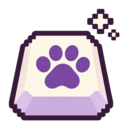
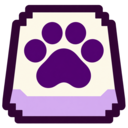
Improve paw keycap visibility in header and browser tabs

diff --git a/src/styles.css b/src/styles.css
@@ -110,8 +110,9 @@ button svg {
   color: inherit;
 }
 .brand-mark {
-  width: 46px;
-  height: 46px;
+  width: 58px;
+  height: 58px;
+  flex-shrink: 0;
   border-radius: 15px;
   background: transparent;
   display: grid;
@@ -1529,8 +1530,8 @@ input[type='range']::-moz-range-thumb {
     font-size: 23px;
   }
   .brand-mark {
-    width: 39px;
-    height: 39px;
+    width: 48px;
+    height: 48px;
     border-radius: 12px;
   }
   .brand-tagline {

diff --git a/index.html b/index.html
@@ -8,7 +8,7 @@
       name="description"
       content="Meet your tiny typing companion. Design a pixel pet, give it a personality, and make every keystroke a little more fun."
     />
-    <link rel="icon" type="image/svg+xml" href="/favicon.svg" />
+    <link rel="icon" type="image/svg+xml" sizes="any" href="/favicon-keycap.svg" />
     <title>KeyCritter — Your tiny typing companion</title>
   </head>
   <body>

diff --git a/src/App.tsx b/src/App.tsx
@@ -315,7 +315,7 @@ export default function App({ desktopState }: { desktopState?: DesktopState }) {
           aria-label="KeyCritter home"
         >
           <span className="brand-mark">
-            <img src={brandLogo} alt="" width="46" height="46" />
+            <img src={brandLogo} alt="" width="58" height="58" />
           </span>
           <span>
             <span className="brand-name">

diff --git a/README.md b/README.md
@@ -4,7 +4,7 @@ A floating typing pet for Windows, with a cozy React designer. Customize a pixel
 
 ## Use the Windows desktop pet
 
-1. Open `KeyCritter-Windows-1.9.2.exe` on a Windows 10/11 x64 computer. This is a portable app; Node.js and an installer are not required.
+1. Open `KeyCritter-Windows-1.9.3.exe` on a Windows 10/11 x64 computer. This is a portable app; Node.js and an installer are not required.
 2. Design your pet, then click **Enable keyboard reactions**. Ordinary typing makes it bounce; Space, Enter, and Backspace have special reactions by default. Add more in the reaction editor.
 3. Drag the little name label beneath your desktop pet to move it. The pet stays above other windows without taking keyboard focus.
 4. Close the designer to keep just the pet. Reopen it from the pet's **Designer** button or the KeyCritter system-tray menu, which may be under Windows' hidden-icons arrow.
@@ -102,13 +102,13 @@ Windows-specific transparency, tray behavior, and native key handling should als
 
 Windows verification checks 0% movement with blinking still active, scaled reaction movement at 25%, and persistence of that setting. It also moves the OS cursor during a captured drag, checks rightward and vertical movement against actual Win32 window positions, verifies no drift from stale renderer events, and checks that edge placement is saved. Drag movement is sampled in the main process, independently of coordinates reported by the moving renderer window.
 
-The GitHub Actions workflow in `.github/workflows/windows-desktop.yml` builds on `windows-latest` when code is pushed to `main`, or when started manually. It opens the actual portable executable on the Windows runner, verifies matching native and interface versions, Upload/AI panels, and uploaded frames playing on the floating pet, and saves screenshots before uploading the download. It also opens Microsoft Edge, switches tabs, and uses Win32 window order/styles to check that the pet stays above the browser without taking focus, recovers from an intentional native topmost reset, and respects unpinning. After a successful run, sign in to GitHub, open the repository's **Actions** tab, select **Build Windows desktop pet**, open the latest completed run, and download the versioned **KeyCritter-Windows-v1.9.2** artifact. Extract that ZIP and follow `START-HERE.txt`. The three `verified-*-ui.png` screenshots and `package-verification.json` show what was tested. Artifacts are retained for 14 days.
+The GitHub Actions workflow in `.github/workflows/windows-desktop.yml` builds on `windows-latest` when code is pushed to `main`, or when started manually. It opens the actual portable executable on the Windows runner, verifies matching native and interface versions, Upload/AI panels, and uploaded frames playing on the floating pet, and saves screenshots before uploading the download. It also opens Microsoft Edge, switches tabs, and uses Win32 window order/styles to check that the pet stays above the browser without taking focus, recovers from an intentional native topmost reset, and respects unpinning. After a successful run, sign in to GitHub, open the repository's **Actions** tab, select **Build Windows desktop pet**, open the latest completed run, and download the versioned **KeyCritter-Windows-v1.9.3** artifact. Extract that ZIP and follow `START-HERE.txt`. The three `verified-*-ui.png` screenshots and `package-verification.json` show what was tested. Artifacts are retained for 14 days.
 
 ```sh
 npm run desktop:win
 ```
 
-The result is `release/KeyCritter-Windows-1.9.2.exe`. Packaging downloads official Electron and NSIS resources; it does not publish anything. The native keyboard package includes Windows x64 N-API prebuilds, which remain unpacked outside the app archive. The portable launcher requests ordinary user privileges. Run `npm run test:portable` on Windows to verify this exact executable, or `npm run test:second-instance` with Linux X11/xdotool to exercise the duplicate-launch message and saved-data protection.
+The result is `release/KeyCritter-Windows-1.9.3.exe`. Packaging downloads official Electron and NSIS resources; it does not publish anything. The native keyboard package includes Windows x64 N-API prebuilds, which remain unpacked outside the app archive. The portable launcher requests ordinary user privileges. Run `npm run test:portable` on Windows to verify this exact executable, or `npm run test:second-instance` with Linux X11/xdotool to exercise the duplicate-launch message and saved-data protection.
 
 ## Open without installing anything
 
